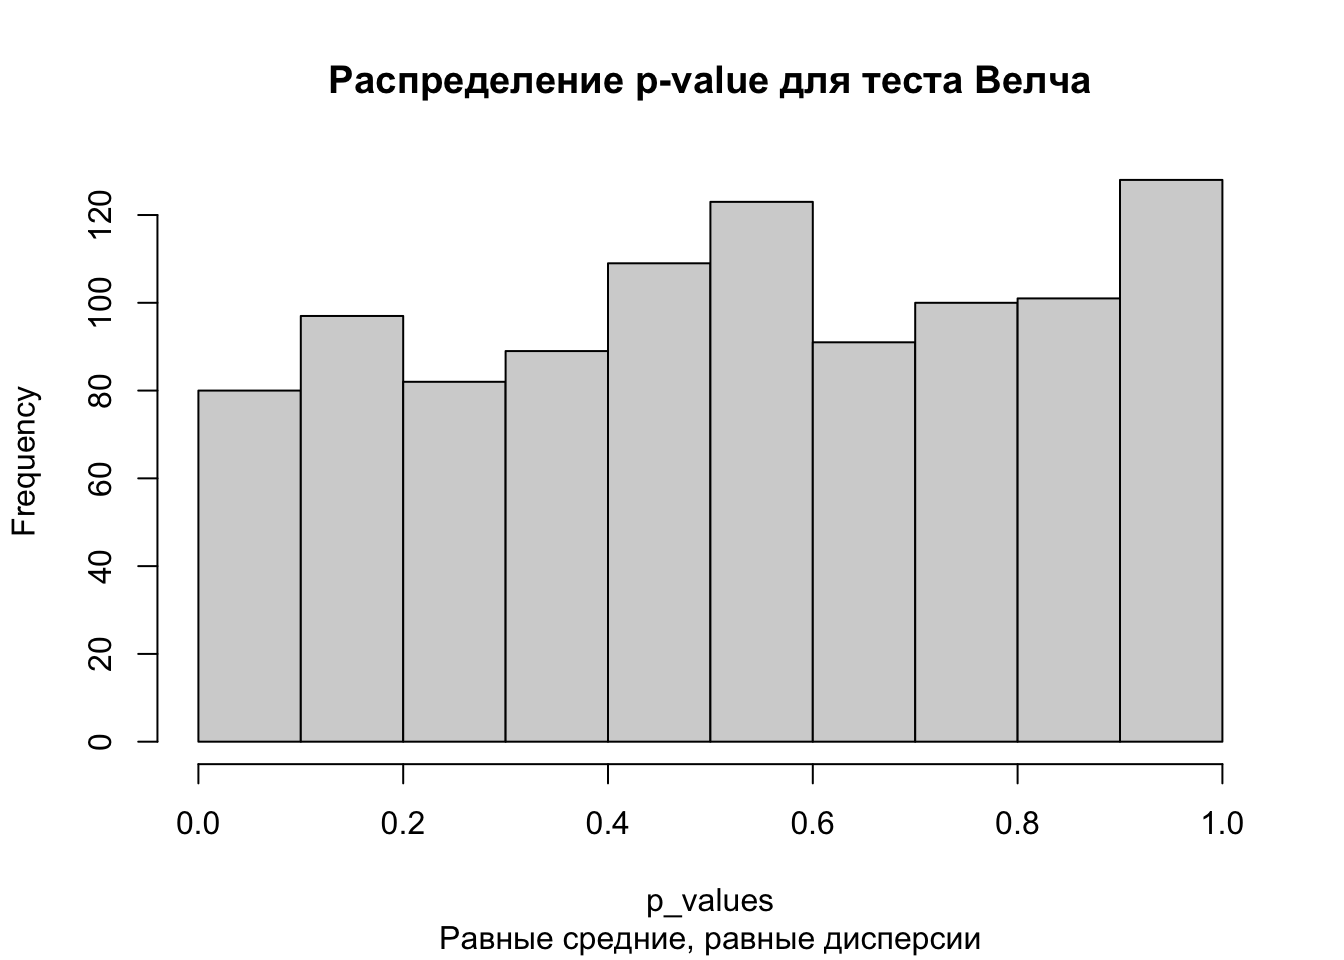
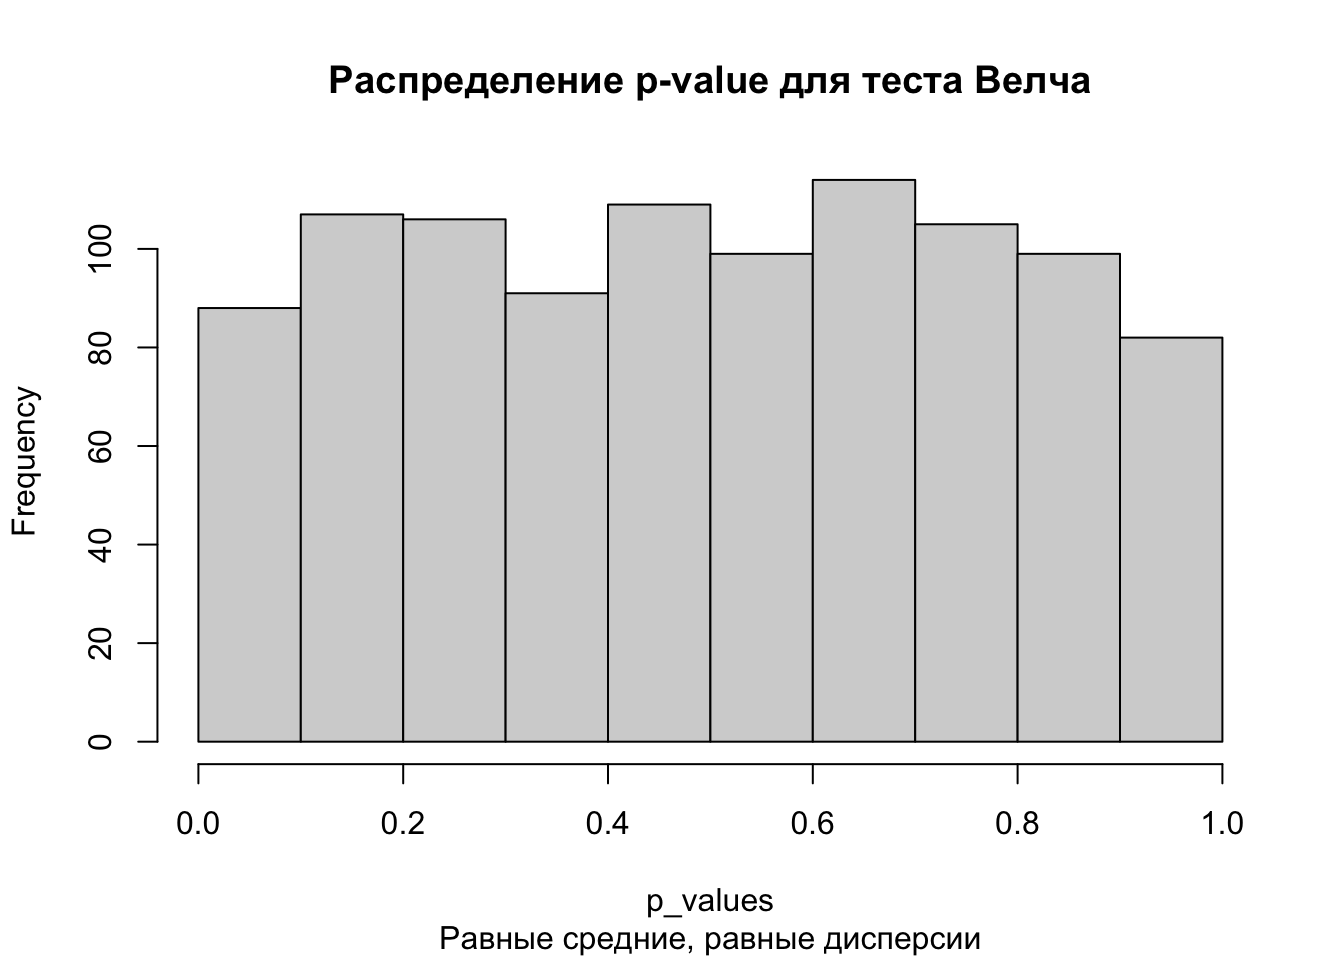
Built site for gh-pages

diff --git a/posts/welch_test.html b/posts/welch_test.html
@@ -301,13 +301,13 @@ s_x = \sqrt{\frac{(n_1 - 1)s_1^2 + (n_2 - 1)s_2^2}{n_1 + n_2 - 2}}
     Two Sample t-test
 
 data:  rnorm(100, mean = 0, sd = 1) and rnorm(100, mean = 0, sd = 1)
-t = -1.1878, df = 198, p-value = 0.2363
+t = -1.2245, df = 198, p-value = 0.2222
 alternative hypothesis: true difference in means is not equal to 0
 95 percent confidence interval:
- -0.4285169  0.1063450
+ -0.4526324  0.1058505
 sample estimates:
   mean of x   mean of y 
--0.10910933  0.05197663 </code></pre>
+-0.04823391  0.12515703 </code></pre>
 </div>
 </div>
 <p>Однако это делать не рекомендуется, поскольку при равных дисперсиях тест Стьюдента не будет сильно отличаться от теста Велча, а при разных тест Велча точнее.</p>
@@ -377,7 +377,7 @@ df = \frac{(s_1^2/n_1 + s_2^2 / n_2)^2}{(s_1^2/n_1)^2/(n_1-1) + (s_2^2/n_2)^2/(n
 </div>
 <div class="sourceCode cell-code" id="cb5"><pre class="sourceCode r code-with-copy"><code class="sourceCode r"><span id="cb5-1"><a href="#cb5-1" aria-hidden="true" tabindex="-1"></a><span class="fu">mean</span>(p_values <span class="sc">&lt;</span> <span class="fl">0.05</span>) <span class="co"># доля p-value, которые оказались меньше 0.05 (прокрасились) </span></span></code><button title="Copy to Clipboard" class="code-copy-button"><i class="bi"></i></button></pre></div>
 <div class="cell-output cell-output-stdout">
-<pre><code>[1] 0.034</code></pre>
+<pre><code>[1] 0.051</code></pre>
 </div>
 </div>
 <p><strong>Тест Стьюдента</strong></p>
@@ -398,7 +398,7 @@ df = \frac{(s_1^2/n_1 + s_2^2 / n_2)^2}{(s_1^2/n_1)^2/(n_1-1) + (s_2^2/n_2)^2/(n
 </div>
 <div class="sourceCode cell-code" id="cb8"><pre class="sourceCode r code-with-copy"><code class="sourceCode r"><span id="cb8-1"><a href="#cb8-1" aria-hidden="true" tabindex="-1"></a><span class="fu">mean</span>(p_values <span class="sc">&lt;</span> <span class="fl">0.05</span>) <span class="co"># доля p-value, которые оказались меньше 0.05 (прокрасились)</span></span></code><button title="Copy to Clipboard" class="code-copy-button"><i class="bi"></i></button></pre></div>
 <div class="cell-output cell-output-stdout">
-<pre><code>[1] 0.04</code></pre>
+<pre><code>[1] 0.049</code></pre>
 </div>
 </div>
 <p>Здесь у нас вероятность ошибки первого рода для обоих тестов примерно 0.05, а также распределение p-value похоже на равномерное. Это ожидаемо и корректно, так как выборки извлекались из одинаковой генеральной совокупности, а значит, что доля ложноположительных результатов (=прокрасов) должна быть не больше заданного уровня <span class="math inline">\(\alpha = 0.05\)</span>.</p>
@@ -834,9 +834,9 @@ df = \frac{(s_1^2/n_1 + s_2^2 / n_2)^2}{(s_1^2/n_1)^2/(n_1-1) + (s_2^2/n_2)^2/(n
 <table class="caption-top table">
 <caption>Здесь ✅ — тест показал себя хорошо, ❌ — тест показал себя плохо, 🟡 — тест показал себя не оптимально, но не слишком плохо</caption>
 <colgroup>
-<col style="width: 75%">
-<col style="width: 10%">
-<col style="width: 14%">
+<col style="width: 64%">
+<col style="width: 17%">
+<col style="width: 17%">
 </colgroup>
 <thead>
 <tr class="header">
@@ -904,7 +904,7 @@ df = \frac{(s_1^2/n_1 + s_2^2 / n_2)^2}{(s_1^2/n_1)^2/(n_1-1) + (s_2^2/n_2)^2/(n
 </div>
 </div>
 <p>Подписывайтесь на <a href="https://t.me/stats_for_science">телеграм-канал</a>, кто еще этого не сделал, пишите комментарии в телеграме или здесь!</p>
-<p><img src="../images/logo_final_tlg.png" class="img-fluid"></p>
+<p><img src="../images/logo_final_tlg.png" class="img-fluid" width="385"></p>
 
 
 </section>

diff --git a/posts/review_of_statistics_course.html b/posts/review_of_statistics_course.html
@@ -407,9 +407,9 @@ window.Quarto = {
 <table class="caption-top table">
 <caption>Здесь ✅ — тест показал себя хорошо, ❌ — тест показал себя плохо, 🟡 — тест показал себя не оптимально, но не слишком плохо</caption>
 <colgroup>
-<col style="width: 47%">
-<col style="width: 26%">
-<col style="width: 26%">
+<col style="width: 64%">
+<col style="width: 17%">
+<col style="width: 17%">
 </colgroup>
 <thead>
 <tr class="header">
@@ -601,7 +601,7 @@ FWER = 1 - (1-\alpha)^k, где
 <h2 class="anchored" data-anchor-id="благодарности">Благодарности</h2>
 <p>Матвею Славенко за уточнение сложных моментов и помощь с корректностью формулировок, Яне, Жене и Юле за конструктивные статистические дискуссии и рекомендации по тексту, Сергею Матросову за дополнительную мотивацию все-таки дописать пост и Дмитрию Пензару за исходное развитие дискуссии и пример с ЦПТ.</p>
 <p>Обсудить можно в телеграм-канале <a href="https://t.me/stats_for_science" target="_blank">Статистика и R в науке и аналитике</a>, в комментариях к <a href="https://t.me/stats_for_science/125" target="_blank">посту</a> или здесь, авторизовавшись через GitHub.</p>
-<p><img src="images/tlg_short.png" class="img-fluid"></p>
+<p><img src="../images/logo_final_tlg.png" class="img-fluid" width="385"></p>
 
 
 </section>

diff --git a/index.html b/index.html
@@ -259,7 +259,7 @@ Elena U
 </a>
 </div>
 </div>
-<div class="quarto-post image-right" data-index="1" data-categories="statistics" data-listing-date-sort="1739469600000" data-listing-file-modified-sort="1739949948354" data-listing-date-modified-sort="NaN" data-listing-reading-time-sort="15" data-listing-word-count-sort="2863">
+<div class="quarto-post image-right" data-index="1" data-categories="statistics" data-listing-date-sort="1739469600000" data-listing-file-modified-sort="1741962911274" data-listing-date-modified-sort="NaN" data-listing-reading-time-sort="15" data-listing-word-count-sort="2863">
 <div class="thumbnail">
 <p><a href="./posts/review_of_statistics_course.html" class="no-external"></a></p><a href="./posts/review_of_statistics_course.html" class="no-external">
 <div class="listing-item-img-placeholder card-img-top" >&nbsp;</div>
@@ -292,7 +292,7 @@ Elena U
 </a>
 </div>
 </div>
-<div class="quarto-post image-right" data-index="2" data-categories="statistics" data-listing-date-sort="1732384800000" data-listing-file-modified-sort="1735624107388" data-listing-date-modified-sort="NaN" data-listing-reading-time-sort="25" data-listing-word-count-sort="4920">
+<div class="quarto-post image-right" data-index="2" data-categories="statistics" data-listing-date-sort="1732384800000" data-listing-file-modified-sort="1741962901221" data-listing-date-modified-sort="NaN" data-listing-reading-time-sort="25" data-listing-word-count-sort="4920">
 <div class="thumbnail">
 <p><a href="./posts/welch_test.html" class="no-external"></a></p><a href="./posts/welch_test.html" class="no-external">
 <div class="listing-item-img-placeholder card-img-top" >&nbsp;</div>
